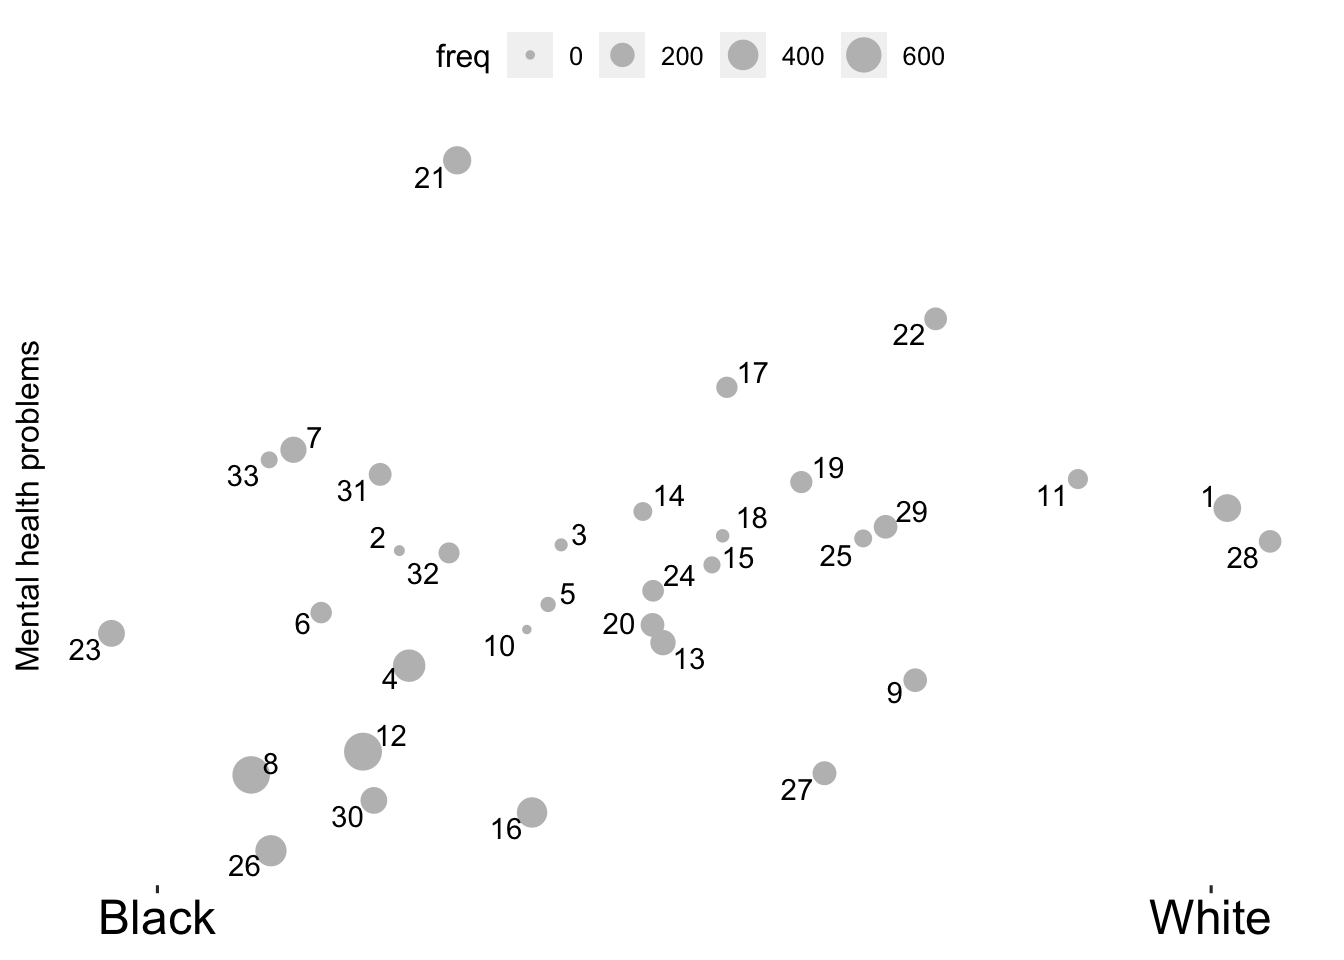
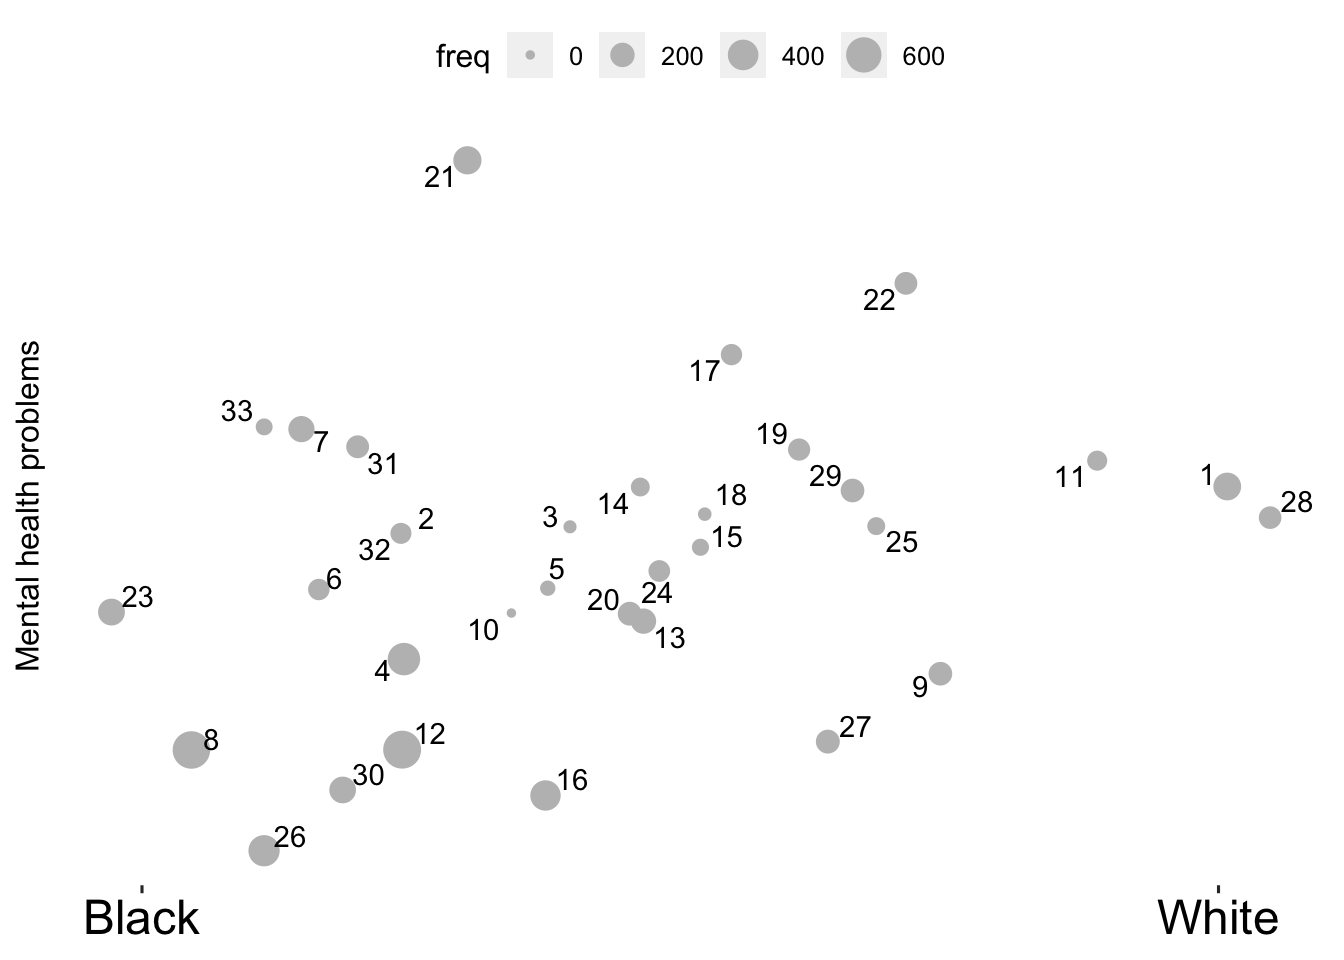
add low income

diff --git a/_site/open_childcare.html b/_site/open_childcare.html
@@ -1372,6 +1372,7 @@ div.tocify {
 <div id="effects" class="section level1">
 <h1>Effects</h1>
 <p><img src="open_childcare_files/figure-html/unnamed-chunk-47-1.png" width="672" /></p>
+<p><img src="open_childcare_files/figure-html/unnamed-chunk-48-1.png" width="672" /></p>
 </div>
 
 
